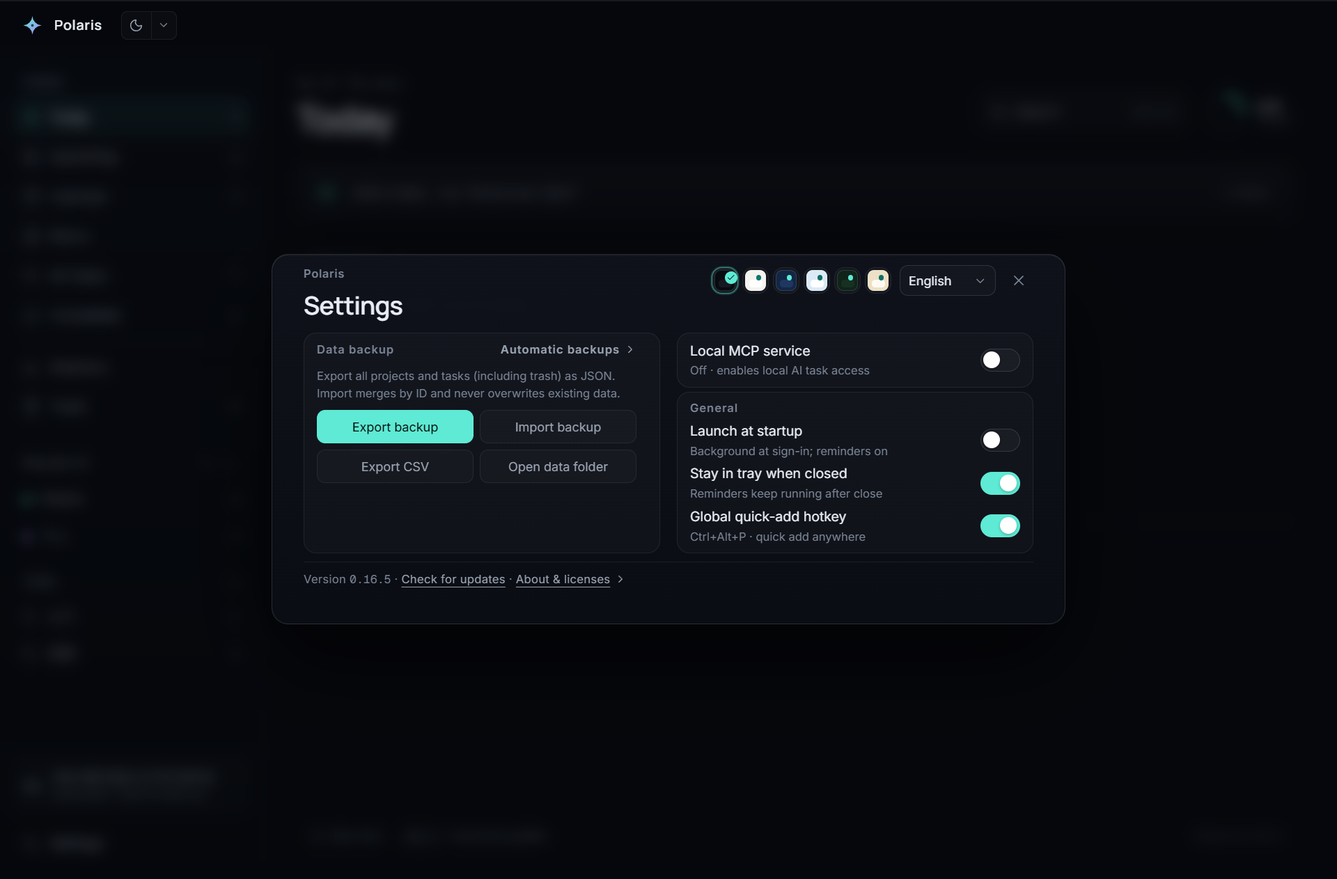
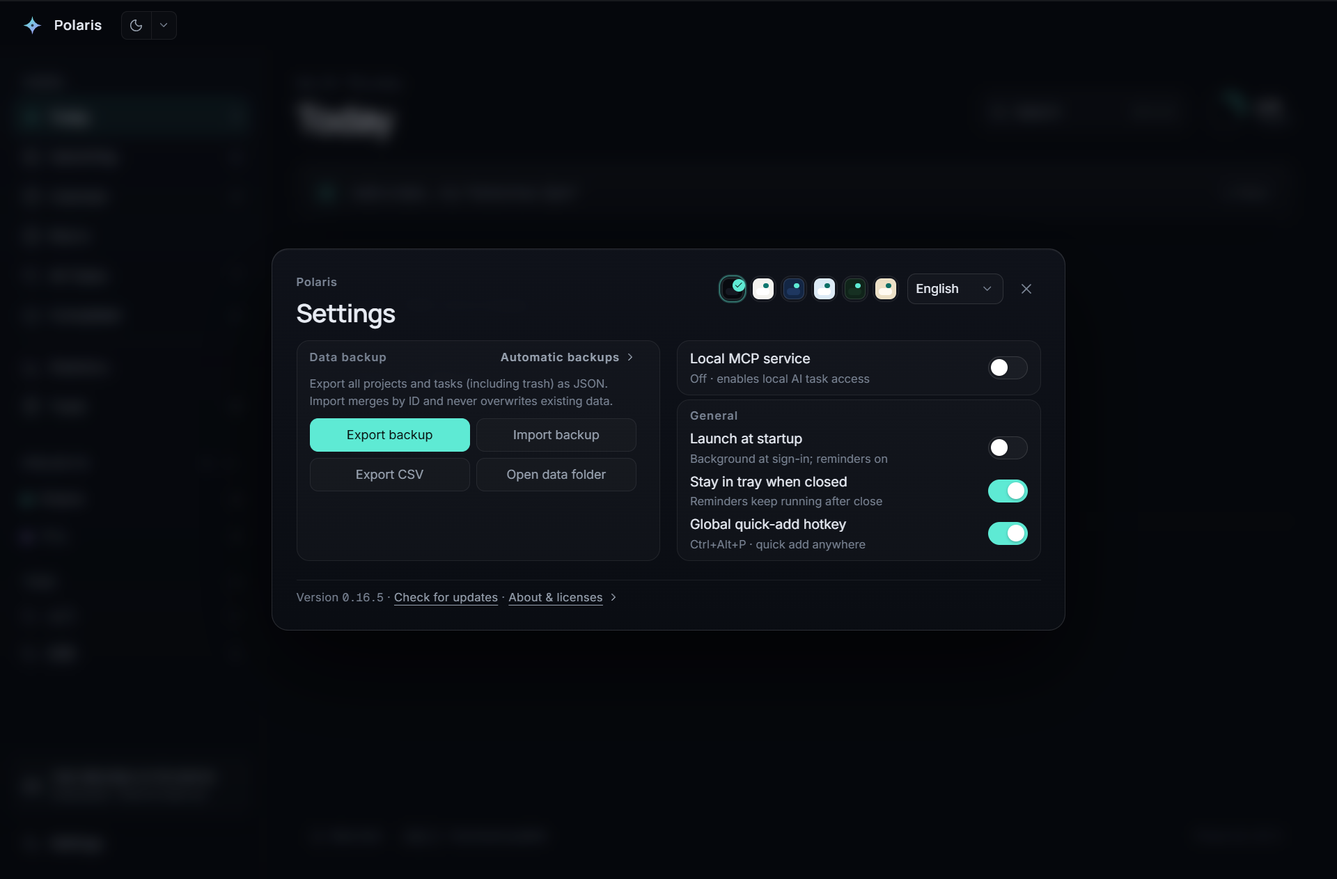
设置页四边等距 24px：状态槽脱流住页脚上方行间隙
- 用户拍板四边统一节奏：padding 23px 13px + 边框 1 + 槽 10 = 四边有效
  留白 24；垂直封顶于此（536 低分辨率档 MCP 启用最坏态一屏余量 8.5px，
  等距 30 会顶破一屏契约）
- 上下不对称根因：更新状态常驻单行槽 in-flow 末行 16.5px + 行隙 8 +
  底 padding 10 ≈ 34.5 vs 顶 10；槽改脱流住页脚分隔线上方 18px 行间隙
  （footer margin-top 10 + row-gap 8），落槽零增高契约原样保留，面板反短 14.5px
- grid-template-areas 除 status 行；状态 div 移进 footer（阅读/焦点顺序
  不变）；关于浮层展开时按浮层语义盖住状态槽
- 冒烟 settingsSymmetricEdges 扩四边等距（±1px 吞槽宽亚像素漂移），
  实测四边 23.67 亚像素级相等；165 全绿 failed:[]
- 中英截图重拍目视全中；CLAUDE.md 与两 README 口径同步

diff --git a/src/main/harness/smoke.ts b/src/main/harness/smoke.ts
@@ -4215,10 +4215,11 @@ export async function runSmokeTest(): Promise<void> {
       }
     }
 
-    // 设置页左右对称 + 叉号右缘对齐（用户报障左右留白不一致/叉号悬空）：
-    // both-edges 滚动条槽让左右有效留白逐像素相等；关闭钮是主题横条末项，
-    // 右缘与右列卡片右缘同基线，标题左缘与备份卡左缘同基线，叉号与语言
-    // 下拉同行居中。三档窗口（含 683×607 实机窄档）量完即关。
+    // 设置页四边等距 + 叉号右缘对齐（用户报障左右/上下不一致、拍板四边统一）：
+    // both-edges 滚动条槽 + 状态槽脱流住页脚上方行间隙后，四边有效留白
+    // 逐像素相等（24 档，±1 吞槽宽亚像素漂移）；关闭钮是主题横条末项，右缘
+    // 与右列卡片右缘同基线，标题左缘与备份卡左缘同基线，叉号与语言下拉同行
+    // 居中。三档窗口（含 683×607 实机窄档）量完即关。
     let settingsSymmetricEdges = false
     if (mainWindow) {
       const originalSize = mainWindow.getSize()
@@ -4240,16 +4241,21 @@ export async function runSmokeTest(): Promise<void> {
             const close = panel.querySelector('.detail-close').getBoundingClientRect();
             const lang = panel.querySelector('.settings-language-select').getBoundingClientRect();
             const title = panel.querySelector('.settings-title').getBoundingClientRect();
+            const head = panel.querySelector('.settings-header').getBoundingClientRect();
+            const foot = panel.querySelector('.settings-footer').getBoundingClientRect();
             const leftInset = backup.left - pr.left;
             const rightInset = pr.right - mcp.right;
+            const topInset = head.top - pr.top;
+            const bottomInset = pr.bottom - foot.bottom;
             const closeFlush = Math.abs(close.right - mcp.right) <= 1;
             const titleFlush = Math.abs(title.left - backup.left) <= 1;
             const rowAligned = Math.abs((close.top + close.bottom) / 2 - (lang.top + lang.bottom) / 2) <= 2;
             document.querySelector('.settings-panel .detail-close')?.click();
             await sleep(250);
             return {
-              ok: Math.abs(leftInset - rightInset) <= 1 && closeFlush && titleFlush && rowAligned,
-              leftInset, rightInset, closeRight: close.right, mcpRight: mcp.right
+              ok: Math.abs(leftInset - rightInset) <= 1 && Math.abs(topInset - bottomInset) <= 1 &&
+                Math.abs(leftInset - topInset) <= 1 && closeFlush && titleFlush && rowAligned,
+              leftInset, rightInset, topInset, bottomInset, closeRight: close.right, mcpRight: mcp.right
             };
           })()`))
         }

diff --git a/src/renderer/src/styles/globals.css b/src/renderer/src/styles/globals.css
@@ -4456,9 +4456,8 @@ textarea {
   grid-template-areas:
     'header theme'
     'backup side'
-    'footer footer'
-    'status status';
-  /* 列距 16：最窄 635 面板档半幅 279.5px，主题横条 140 + 隙 8 + 语言 92
+    'footer footer';
+  /* 列距 16：最窄 635 面板档半幅 285.5px，主题横条 140 + 隙 8 + 语言 92
      + 隙 8 + 关闭钮 28 = 276px 吞得下（关闭钮并入横条后不再额外让位）。 */
   column-gap: 16px;
   row-gap: 8px;
@@ -4468,9 +4467,11 @@ textarea {
   overflow-y: auto;
   /* 滚动条槽常驻且左右对称（both-edges）：超帽出滚动条不挤窄内容 = 零横向
      抖动；单侧 stable 曾让右留白比左多一个槽宽（用户报障左右不对称）。
-     水平 padding 20 + 槽 10 = 左右各 30，逐像素对称，槽宽漂移也不破对称。 */
+     四边等距 24（用户拍板统一节奏）：水平 1 边框 + 13 + 槽 10，垂直 1 + 23；
+     槽宽亚像素漂移 ≤1px 由对称断言容差吞。垂直不再大：536 低分辨率档
+     MCP 启用最坏态一屏契约只剩 8.5px 余量，30 等距会顶破。 */
   scrollbar-gutter: stable both-edges;
-  padding: 10px 20px;
+  padding: 23px 13px;
   border: 1px solid var(--line-strong);
   border-radius: 16px;
   background: var(--command-bg);
@@ -4579,7 +4580,7 @@ textarea {
 /* 语言下拉上移到主题标题行右侧，省一整行高度。 */
 /* 主题节 = 标题同行右半：色样横条 + 语言下拉 + 关闭钮末项。只留色样
    （名字/气质进 title），20px 六枚 + 4px 隙 = 140px，加语言 92 + 隙 8
-   + 关闭钮 28 + 隙 8 = 276px ≤ 最窄两列半幅 279.5px（635px 面板档）。 */
+   + 关闭钮 28 + 隙 8 = 276px ≤ 最窄两列半幅 285.5px（635px 面板档）。 */
 .settings-section--theme {
   grid-area: theme;
   display: flex;
@@ -5242,6 +5243,8 @@ textarea {
 .settings-footer {
   grid-area: footer;
   position: relative;
+  /* 与 row-gap 8 合出 18px 行间隙，收容脱流的状态单行槽（16.5px）。 */
+  margin-top: 10px;
   padding-top: 8px;
   border-top: 1px solid var(--line);
   color: var(--text-tertiary);
@@ -5294,8 +5297,14 @@ textarea {
   max-height: none;
 }
 
-.settings-panel > .update-footer-status {
-  grid-area: status;
+/* 状态槽脱流住页脚分隔线上方行间隙（footer margin-top 10 + row-gap 8 = 18
+   ≥ 单行 16.5）：旧 in-flow 末行让底留白 = 10+8+16.5 ≈ 34.5 vs 顶 10
+   （用户报障上下不对称）；脱流后上下留白各 10 逐像素对称，落槽仍零增高。 */
+.settings-footer .update-footer-status {
+  position: absolute;
+  bottom: calc(100% + 1px);
+  left: 0;
+  right: 0;
   margin-top: 0;
 }
 

diff --git a/src/renderer/src/components/SettingsPanel.tsx b/src/renderer/src/components/SettingsPanel.tsx
@@ -974,13 +974,15 @@ export function SettingsPanel({ open, onClose, scrollTo = null }: SettingsPanelP
                   className={`settings-about-chev${aboutOpen ? ' open' : ''}`}
                 />
               </button>
-            </div>
-            <div
-              className={`settings-hint update-footer-status${updateErrorDetail ? ' is-error' : ''}`}
-              role={updateErrorDetail ? 'alert' : 'status'}
-              title={updateErrorDetail ?? (updateStatusVisible && update ? updateStatusText(update, t) : '')}
-            >
-              {updateErrorDetail ?? (updateStatusVisible && update ? updateStatusText(update, t) : '')}
+              {/* 状态槽脱流住分隔线上方行间隙（见 CSS）：面板上下留白对称、
+                  落槽零增高。DOM 仍住 footer 内，阅读/焦点顺序不变。 */}
+              <div
+                className={`settings-hint update-footer-status${updateErrorDetail ? ' is-error' : ''}`}
+                role={updateErrorDetail ? 'alert' : 'status'}
+                title={updateErrorDetail ?? (updateStatusVisible && update ? updateStatusText(update, t) : '')}
+              >
+                {updateErrorDetail ?? (updateStatusVisible && update ? updateStatusText(update, t) : '')}
+              </div>
             </div>
 
             {/* 重新生成令牌的二次确认：旧客户端配置立即失效，属破坏性动作。

diff --git a/CLAUDE.md b/CLAUDE.md
@@ -182,7 +182,7 @@ npm run make:icon   # regenerate build/icon.png / .ico / .icns
 - Two locales ship: `zh-CN` (default) and `en`. The dictionary is a lightweight hand-rolled module under `src/shared/i18n/` — no third-party i18n library. Chinese is the mother table, split by domain into nine files (`common` / `nav` / `views` / `detail` / `quickAdd` / `settings` / `dialogs` / `main` / `features`) merged in `zh.ts`; `en.ts` is typed `const en: Messages`, so a missing English key is a typecheck error. `translate(locale, key, params)` interpolates `{name}` and falls back to `zhCN` then the raw key. Brand name `Polaris` is never translated.
 - Renderer: `useLocaleStore` (Zustand) owns the locale, persisted in localStorage `polaris-locale`. Initial value = URL query `locale` → stored value → `navigator.language` through `localeFromLanguageTag` (zh* → `zh-CN`, everything else → `en`). Components call `useT()` for a locale-bound `t` and `useLocale()` when a helper needs the locale (dates, recurrence, theme labels). `LocaleSync` is mounted once in `App.tsx` and syncs `<html lang>`, pushes `app:set-locale` to the main process, follows `storage` events from other windows via `setState` (never writing back), and exposes the smoke hook `window.__polarisSetLocale`.
 - Main process: `src/main/locale.ts` is the single record, persisted in the existing `meta` table under `locale` (no migration). `initAppLocale()` defaults to `zh-CN` whenever `POLARIS_SMOKE` / `POLARIS_SHOT` / `POLARIS_SCREENSHOT` is set (harness builds only — the env read is behind `__POLARIS_HARNESS__`), overridable with `POLARIS_LOCALE` for English screenshots — every existing smoke assertion and screenshot works on Chinese text. `db.ts` `seedLocale()` mirrors the same precedence independently (seeding runs before `initAppLocale`, whose meta read needs the database), so first-launch demo tasks match the UI language. `app:get-locale` / `app:set-locale` live inline in `app.whenReady()`; a successful set also calls `updateTrayLocale()`. The renderer URL carries `?locale=` so the first frame paints the authoritative language before the store boots (the splash does too). Tray labels go through the `tray.*` keys and `getTrayMenuLabels()` reads the built menu; `describeTrayCheck(state, locale = 'zh-CN')` is the pure helper behind tray balloons; native file dialogs use `translate(getCurrentLocale(), 'native.*')`.
-- The language switch is `LanguageSelect.tsx`, a hand-drawn dropdown sitting on the theme section's title row (right side) in `SettingsPanel`, saving a full row of height. It replaces the native `<select>` because the OS draws the native popup white regardless of theme; the menu is absolutely positioned inside the row (scrolls with the panel, no viewport repositioning math) and paints with `--panel-bg` / `--line-strong` / `--hover` tokens like `ThemeMenu`. Options are `div[role="option"]` with roving tabindex (never buttons — the trap's FOCUSABLE selector counts buttons); Esc must `stopPropagation` or the settings panel's window listener closes the whole panel; Tab closes without trapping; outside pointerdown and blur-outside close it. One unified two-column layout serves **every** window height (the old >860px single-column variant stacked MCP-on content to 881px and always scrolled, and crossing the breakpoint reflowed the whole panel): named `grid-template-areas` place header left / theme-swatch strip right on the first row (the close button is the strip's last flex item — right edge flush with the right column, vertically centered with the swatches and language dropdown — instead of absolutely floating between padding/gutter baselines), backup card left / MCP + General wrapped in `settings-side` right, footer + status spanning; sections can be added or moved without breaking the grid. Right-column row descriptions are single-line ellipsis and error / unsupported states **replace** the description in the same row (`.is-error[role=alert]`, full text in `title`) — zero conditional rows, so column height is fully deterministic; `settingsNoScrollMcp` pins scrollHeight ≤ clientHeight with MCP on + update status across zh/en × five window sizes (1024×576, 980×640, 683×607, 1280×840, 1280×900). The backup group description clamps to two lines and the accordion's 24h/21-copy/merge note lives in the toggle's `title`, keeping the expanded list's first row inside the 207px card at 1024×576 without scrolling. General / MCP / backup are group cards (`--surface-1` + `--line`, radius 12 — same material as theme options). The right column's content is fixed, so it prices the grid row; the left backup card — the only group whose height varies (accordion, status lines) — uses `contain: size` (zero intrinsic contribution, never prices the row) plus `align-self: stretch` (fills the row) and an in-card flex chain (`auto-backup-body` / `auto-backup-list` `flex: 1` + `min-height: 0`, the list scrolls inside the card), so expanding/collapsing automatic backups changes no outer geometry — pinned by the `settingsBackupNoShift` smoke discriminator (three fixture backups at 1024×576, pixel-identical panel content height / footer top / outer frame / right column across the toggle, rows verified inside the card). Both columns stay equal-height in every state (`balanced` now compares backup card vs side); General rows are top-aligned at fixed gap 4 — the old `space-between` stretch made uneven row gaps. Compact backup buttons are a 2×2 grid with `white-space: nowrap` (four-across in a half-width column wrapped labels inside the 32px buttons); the accordion loads the list before expanding so growth is single-stage. The overlay is **truly vertically centered with a glide** (user decision: centered looks better): `SettingsPanel` writes `--settings-inset-top = max(24px, (innerHeight - panel.offsetHeight) / 2)` from a ResizeObserver plus window resize (`offsetHeight` ignores the entrance spring's scale), and `.settings-overlay` transitions `padding-top` over 180ms — enabling MCP grows the panel and it glides to the new center instead of snapping; about/accordion/status never change panel height, so the MCP toggle is the only glide trigger, and `settingsCentered` pins equal top/bottom gaps (±2px) across two window sizes × MCP off/on; panel `max-height` subtracts the same inset, and `scrollbar-gutter: stable both-edges` reserves the 10px scrollbar slot on **both** sides permanently (single-side `stable` left the right inset a slot-width wider than the left — user-reported asymmetry), so with horizontal padding 20 the effective inset is 30px per side, pixel-symmetric even if the slot width drifts, and the scrollbar appearing on overflow never reflows content width; `settingsSymmetricEdges` pins left/right insets equal, close-right flush with the right column, title-left flush with the backup card and close centered with the language dropdown across 1024×576 / 683×607 / 1280×900, and the no-scroll / centering / CSV guards joined the gated `checks` map the same day (they had been display-only); `settingsAboutStable` also pins `clientWidth` and theme-swatch width across the toggle. About/credits are a **popover above the footer** (「关于与许可」 toggle, `motion.div` opacity+y 140ms, expanded mounts / collapsed unmounts): absolutely positioned inside `.settings-footer` (`position: relative`), so toggling changes **no layout height and no scroll geometry** — the earlier in-flow disclosure grew the panel past its cap, and collapsing after the user scrolled into the credits clamped `scrollTop` back to 0 (measured 68→0 in ≤60ms at 1280×843), snapping the view; the popover removes that whole class by construction. Esc closes only the popover while open (single window listener decides by `aboutOpen`; dual capture+bubble listeners were rejected for phase/ordering complexity), outside mousedown inside the panel closes it too; the version number stays in the footer. Smoke `settingsAboutStable` pins panel-top, footer-top, outer height, `scrollHeight` and content width immutability across the toggle at 1280×843 (the zero-growth popover contract replaces the old `grew` guard). The two options always read `简体中文` / `English` in their own language, never translated. Trigger focus uses the app's soft-focus language (faint accent border + light glow, `outline: 0`), never a hard ring. Smoke: `languageMenuThemed` compares the menu's computed background against a `var(--panel-bg)` probe byte-for-byte, clicks through both options, and checks Esc closes only the menu.
+- The language switch is `LanguageSelect.tsx`, a hand-drawn dropdown sitting on the theme section's title row (right side) in `SettingsPanel`, saving a full row of height. It replaces the native `<select>` because the OS draws the native popup white regardless of theme; the menu is absolutely positioned inside the row (scrolls with the panel, no viewport repositioning math) and paints with `--panel-bg` / `--line-strong` / `--hover` tokens like `ThemeMenu`. Options are `div[role="option"]` with roving tabindex (never buttons — the trap's FOCUSABLE selector counts buttons); Esc must `stopPropagation` or the settings panel's window listener closes the whole panel; Tab closes without trapping; outside pointerdown and blur-outside close it. One unified two-column layout serves **every** window height (the old >860px single-column variant stacked MCP-on content to 881px and always scrolled, and crossing the breakpoint reflowed the whole panel): named `grid-template-areas` place header left / theme-swatch strip right on the first row (the close button is the strip's last flex item — right edge flush with the right column, vertically centered with the swatches and language dropdown — instead of absolutely floating between padding/gutter baselines), backup card left / MCP + General wrapped in `settings-side` right, footer + status spanning; sections can be added or moved without breaking the grid. Right-column row descriptions are single-line ellipsis and error / unsupported states **replace** the description in the same row (`.is-error[role=alert]`, full text in `title`) — zero conditional rows, so column height is fully deterministic; `settingsNoScrollMcp` pins scrollHeight ≤ clientHeight with MCP on + update status across zh/en × five window sizes (1024×576, 980×640, 683×607, 1280×840, 1280×900). The backup group description clamps to two lines and the accordion's 24h/21-copy/merge note lives in the toggle's `title`, keeping the expanded list's first row inside the 207px card at 1024×576 without scrolling. General / MCP / backup are group cards (`--surface-1` + `--line`, radius 12 — same material as theme options). The right column's content is fixed, so it prices the grid row; the left backup card — the only group whose height varies (accordion, status lines) — uses `contain: size` (zero intrinsic contribution, never prices the row) plus `align-self: stretch` (fills the row) and an in-card flex chain (`auto-backup-body` / `auto-backup-list` `flex: 1` + `min-height: 0`, the list scrolls inside the card), so expanding/collapsing automatic backups changes no outer geometry — pinned by the `settingsBackupNoShift` smoke discriminator (three fixture backups at 1024×576, pixel-identical panel content height / footer top / outer frame / right column across the toggle, rows verified inside the card). Both columns stay equal-height in every state (`balanced` now compares backup card vs side); General rows are top-aligned at fixed gap 4 — the old `space-between` stretch made uneven row gaps. Compact backup buttons are a 2×2 grid with `white-space: nowrap` (four-across in a half-width column wrapped labels inside the 32px buttons); the accordion loads the list before expanding so growth is single-stage. The overlay is **truly vertically centered with a glide** (user decision: centered looks better): `SettingsPanel` writes `--settings-inset-top = max(24px, (innerHeight - panel.offsetHeight) / 2)` from a ResizeObserver plus window resize (`offsetHeight` ignores the entrance spring's scale), and `.settings-overlay` transitions `padding-top` over 180ms — enabling MCP grows the panel and it glides to the new center instead of snapping; about/accordion/status never change panel height, so the MCP toggle is the only glide trigger, and `settingsCentered` pins equal top/bottom gaps (±2px) across two window sizes × MCP off/on; panel `max-height` subtracts the same inset, and `scrollbar-gutter: stable both-edges` reserves the 10px scrollbar slot on **both** sides permanently (single-side `stable` left the right inset a slot-width wider than the left — user-reported asymmetry), so with padding `23px 13px` plus border and slot the effective inset is 24px on **all four** sides (user decision: one uniform rhythm; vertical capped there because the 536px low-res tier's MCP-on one-screen budget has only ~8.5px slack), pixel-equal within ±1px of sub-pixel slot drift, and the scrollbar appearing on overflow never reflows content width; the update-status single-line slot moved **out of flow** into the 18px row gap above the footer separator (footer `margin-top: 10` + row-gap 8 ≥ the 16.5px line), keeping the zero-jump landing contract while removing the old ~34.5px bottom inset; `settingsSymmetricEdges` pins four-side inset equality, close-right flush with the right column, title-left flush with the backup card and close centered with the language dropdown across 1024×576 / 683×607 / 1280×900, and the no-scroll / centering / CSV guards joined the gated `checks` map the same day (they had been display-only); `settingsAboutStable` also pins `clientWidth` and theme-swatch width across the toggle. About/credits are a **popover above the footer** (「关于与许可」 toggle, `motion.div` opacity+y 140ms, expanded mounts / collapsed unmounts): absolutely positioned inside `.settings-footer` (`position: relative`), so toggling changes **no layout height and no scroll geometry** — the earlier in-flow disclosure grew the panel past its cap, and collapsing after the user scrolled into the credits clamped `scrollTop` back to 0 (measured 68→0 in ≤60ms at 1280×843), snapping the view; the popover removes that whole class by construction. Esc closes only the popover while open (single window listener decides by `aboutOpen`; dual capture+bubble listeners were rejected for phase/ordering complexity), outside mousedown inside the panel closes it too; the version number stays in the footer. Smoke `settingsAboutStable` pins panel-top, footer-top, outer height, `scrollHeight` and content width immutability across the toggle at 1280×843 (the zero-growth popover contract replaces the old `grew` guard). The two options always read `简体中文` / `English` in their own language, never translated. Trigger focus uses the app's soft-focus language (faint accent border + light glow, `outline: 0`), never a hard ring. Smoke: `languageMenuThemed` compares the menu's computed background against a `var(--panel-bg)` probe byte-for-byte, clicks through both options, and checks Esc closes only the menu.
 - Formatting is locale-aware: `lib/dates.ts` (`formatDue` / `formatHeaderDate` / `formatCompletedAt` / `formatDeletedAt`), `lib/dateTime.ts` (`weekdayLabels` / `monthLabel` / `dayLabel` / `dayPart`), `shared/quickAddParse.ts` (`formatParsedDue` takes an explicit locale) and `shared/recurrence.ts` (`recurrenceLabel` takes one). Pass the current locale at every call site; the default parameter exists for legacy call sites, not for new ones.
 - Adding a third language means: extend `Locale` / `LOCALES` / `isLocale` / `localeFromLanguageTag` in `src/shared/i18n/index.ts`, add an `xx.ts` implementing `Messages` and branch `translate` on it, teach the date helpers that locale, and add the option to `LanguageSelect` (it maps `LOCALES` automatically — extend its `OPTION_LABEL_KEY` and the message dictionaries). `localeFromLanguageTag` must keep defaulting non-Chinese tags to `en` until a real locale match exists.
 - Quick-add natural-language parsing is bilingual and input-driven: Chinese and English date words are both recognized in either UI language; the locale only chooses chip and receipt copy. The English layer is enumerated inline (`Step 2b` in `shared/quickAddParse.ts`), not forked — it feeds the same candidate list through the existing cluster selection, head/tail anchoring, title carving, dismissal and `candidateCounts` machinery, and reuses the existing `TokenKind`s except `offsetEn`. Grammar: today / tonight / tomorrow / day after tomorrow (plus tmr / tmw), weekday names and abbreviations with optional next / this / on (`next` = 下周 semantics; a `this` weekday already past is rejected, not rolled forward, matching Chinese 「本周五」), 3pm / 3:30pm / 3 pm / at 3 / at 15 / noon / midnight, bare morning / afternoon / evening (defaults 09/15/20, aligned with 上午/下午/晚上), in N hours|minutes|days|weeks (hours/minutes are exact millisecond offsets — instant semantics; days/weeks are wall-clock `addDays` additions, week = 7×day, matching 「后天」 — a fixed 86400000ms day would drift an hour across a DST transition), dec 25 / 25 dec / december 25 / 12/25 (US month-first), and `!high` / `!medium` / `!med` / `!low`. `2026-12-25` and `#project` were already language-neutral. False-positive defenses: ASCII lookbehind word boundaries replace the Chinese character guards, so `tomorrowland` and the `in` of `join` never match; a month name only counts when adjacent to a day number (`May the force be with you`, `march forward`, `April is nice` stay titles); a bare weekday abbreviation needs lowercase or sentence case with no following lowercase word or proper noun and is skipped after pronouns (`sat down`, `Sun Microsystems`, `SAT scores`, `Mon ami`); `good morning`-style greetings are masked whole. Offsets stay UTF-16 code-unit half-open spans so `String.slice` / `setSelectionRange` remain aligned. CSV export headers follow Csv canonical columns and are not localized. Local MCP tool names and descriptions stay English (protocol surface, not UI). Code comments stay Chinese.

diff --git a/README.en.md b/README.en.md
@@ -77,7 +77,7 @@ If you previously installed the "all users" build (under `C:\Program Files`), un
 - **Small-screen fit**: default and minimum window sizes hug the screen's work area and re-clamp when the resolution changes; 1024×576-class screens get a compact layout with independently scrolling sidebar navigation, and the storage card and Settings stay pinned at the bottom.
 - **UI language**: switch between Simplified Chinese and English in the Settings "Color theme" section — UI text, date formats, and the tray menu update instantly and the choice is remembered; system notifications and native file dialogs follow the current language.
 - **Keyboard-first & accessibility**: the command palette (`Ctrl K`), Settings, and the narrow-screen detail drawer have focus traps, while the wide-screen inspector keeps the list operable; skip link and reduced motion are supported; all ten input fields across the app share one soft-focus language (faint border + light halo), and focus rings never match their fill color.
-- **Settings on one screen**: the Settings panel fits every window size in one screen with no vertical scroll (one unified two-column layout: left "Data backup", right "Local MCP + General", and a six-swatch theme strip sharing the header row — names and temperaments live in hover tooltips): the right column's fixed content pins the row height and its row descriptions are single-line ellipsis (errors replace the description in the same row, full text in the tooltip), while the left backup card absorbs the accordion's expansion (the list scrolls inside the card), so expanding / collapsing automatic backups leaves the panel, footer and right column pixel-identical; the backup buttons form a 2×2 grid and button labels never wrap inside a button. Each of the three groups lives in its own card, both columns equal-height in any state. The language dropdown sits at the right end of the theme row; the adaptive short-mask token (head/tail fill the box, at least first 4 / last 4, middle hidden) stretches to fill the row's remaining width, justified edge-to-edge with those right-aligned buttons, while the usage note lives in the reserved feedback slot; Export CSV is a plain button in the fourth backup-grid cell (CSV import removed); About & licenses live in a popover above the footer (zero layout growth when expanded, Esc / outside-click closes it). The panel is truly vertically centered (top inset computed from its measured height; enabling MCP glides to the new center over 180ms instead of snapping) and the scrollbar gutter is permanent and symmetric on both sides (both-edges, left/right insets pixel-equal) — expanding About never re-flows or changes scroll state; the close button is the theme strip's last item, its right edge flush with the right column instead of floating; the update-status line holds a permanent single-line slot so check results land without jumping. The custom title bar keeps native Windows minimize / maximize / close buttons.
+- **Settings on one screen**: the Settings panel fits every window size in one screen with no vertical scroll (one unified two-column layout: left "Data backup", right "Local MCP + General", and a six-swatch theme strip sharing the header row — names and temperaments live in hover tooltips): the right column's fixed content pins the row height and its row descriptions are single-line ellipsis (errors replace the description in the same row, full text in the tooltip), while the left backup card absorbs the accordion's expansion (the list scrolls inside the card), so expanding / collapsing automatic backups leaves the panel, footer and right column pixel-identical; the backup buttons form a 2×2 grid and button labels never wrap inside a button. Each of the three groups lives in its own card, both columns equal-height in any state. The language dropdown sits at the right end of the theme row; the adaptive short-mask token (head/tail fill the box, at least first 4 / last 4, middle hidden) stretches to fill the row's remaining width, justified edge-to-edge with those right-aligned buttons, while the usage note lives in the reserved feedback slot; Export CSV is a plain button in the fourth backup-grid cell (CSV import removed); About & licenses live in a popover above the footer (zero layout growth when expanded, Esc / outside-click closes it). The panel is truly vertically centered (top inset computed from its measured height; enabling MCP glides to the new center over 180ms instead of snapping) and the scrollbar gutter is permanent and symmetric on both sides (both-edges), with the update-status single-line slot living out of flow in the row gap above the footer separator — all four insets pixel-equal (24px); expanding About never re-flows or changes scroll state and check results land in the slot without jumping; the close button is the theme strip's last item, its right edge flush with the right column instead of floating. The custom title bar keeps native Windows minimize / maximize / close buttons.
 - **About & attribution**: the version number lives permanently in the Settings footer; expanding the "About & licenses" popover reveals the MIT license and font / icon credits. Full third-party component and font notices ship with the installer in `resources/NOTICE` and `resources/licenses/`.
 
 ## Screenshots
@@ -384,7 +384,7 @@ All expected values are written as literals, never computed through the code und
 
 **Tray & hotkey**: post-build menu labels are exactly four items; tray "Settings" summons the window and opens the panel; manual-check balloon copy truth table across seven states; dev-mode checks neither popup nor summon; hotkey on by default, Settings round-trip, conflict degradation notice, hidden-window summon lands on "Today" with the input focused.
 
-**Layout & focus**: Settings one-screen guard (default 840 and compact tiers, measured after clicking check-for-updates so the status row exists); the 1024×536 low-resolution compact tier applies with no sidebar/main overflow; the storage card jumps to the backup section. A dedicated one-screen guard measures the MCP-on worst case in both languages across five window sizes (including the real 683×607 width and the 1280×900 tall tier): scrollHeight ≤ clientHeight everywhere. A centering guard measures equal top/bottom gaps (pixel-identical) across two window sizes × MCP off/on; a CSV guard pins Export CSV as a plain button (four-button 2×2, no split chevron or popover leftovers) and a main-process fixture compares the exported text line-by-line against literals (escaping/INDENT/priority/wall-clock/completion); the Settings zero-jitter guard measures at the real 1024×576 tier: adaptive short mask shape (prefix + head k+3 + … + tail k, k≥4), middle hidden, fills ≥80% of the box inner width on a single line whose box fills the remaining row width so the row is justified edge-to-edge (box flush left, button group flush right), single-line feedback slot, exactly the copy and reset buttons, and zero displacement of panel content height and footer top edge before/after check results land in their slot. The layout-v2 guard additionally verifies two-column orientation (left backup card, right MCP + General), the language dropdown's position, equal column heights (backup card vs right column), and the About collapse round-trip. A symmetry guard measures equal left/right insets, the close button's right edge flush with the right column, the title's left edge flush with the backup card, and the close button vertically centered with the language dropdown across three window sizes (including the real 683×607 tier); the one-screen / centering / CSV guards joined the gated checks map on 2026-11-19 (previously display-only). The backup zero-jitter guard expands the automatic-backup accordion with three fixture backups at 1024×576 and asserts the rows render inside the stretched card while panel content height, footer top edge, outer frame and right-column height stay pixel-identical across expand and collapse. The top-edge anchoring guard verifies at 1280×843 that expanding/collapsing About leaves the panel top edge, footer top edge, outer height, content height, and content width pixel-identical (the zero-growth popover contract). Focus-ring scans cover five states — main view, detail pane, date popover, expanded theme menu, trash confirm dialog — failing if any ring matches its own fill/border color.
+**Layout & focus**: Settings one-screen guard (default 840 and compact tiers, measured after clicking check-for-updates so the status row exists); the 1024×536 low-resolution compact tier applies with no sidebar/main overflow; the storage card jumps to the backup section. A dedicated one-screen guard measures the MCP-on worst case in both languages across five window sizes (including the real 683×607 width and the 1280×900 tall tier): scrollHeight ≤ clientHeight everywhere. A centering guard measures equal top/bottom gaps (pixel-identical) across two window sizes × MCP off/on; a CSV guard pins Export CSV as a plain button (four-button 2×2, no split chevron or popover leftovers) and a main-process fixture compares the exported text line-by-line against literals (escaping/INDENT/priority/wall-clock/completion); the Settings zero-jitter guard measures at the real 1024×576 tier: adaptive short mask shape (prefix + head k+3 + … + tail k, k≥4), middle hidden, fills ≥80% of the box inner width on a single line whose box fills the remaining row width so the row is justified edge-to-edge (box flush left, button group flush right), single-line feedback slot, exactly the copy and reset buttons, and zero displacement of panel content height and footer top edge before/after check results land in their slot. The layout-v2 guard additionally verifies two-column orientation (left backup card, right MCP + General), the language dropdown's position, equal column heights (backup card vs right column), and the About collapse round-trip. A symmetry guard measures all four insets pixel-equal (±1px), the close button's right edge flush with the right column, the title's left edge flush with the backup card, and the close button vertically centered with the language dropdown across three window sizes (including the real 683×607 tier); the one-screen / centering / CSV guards joined the gated checks map on 2026-11-19 (previously display-only). The backup zero-jitter guard expands the automatic-backup accordion with three fixture backups at 1024×576 and asserts the rows render inside the stretched card while panel content height, footer top edge, outer frame and right-column height stay pixel-identical across expand and collapse. The top-edge anchoring guard verifies at 1280×843 that expanding/collapsing About leaves the panel top edge, footer top edge, outer height, content height, and content width pixel-identical (the zero-growth popover contract). Focus-ring scans cover five states — main view, detail pane, date popover, expanded theme menu, trash confirm dialog — failing if any ring matches its own fill/border color.
 
 **Themes**: pair quick-toggle returns to the original theme after two clicks (verified for all three pairs); the six-theme matrix's `data-theme` / persistence / token application; the title-bar theme menu (all six rows in fixed order, opening focuses the current row, selection persists, `aria-expanded` resets after unmount, focus returns to the arrow, Esc closes only the menu); and typing "主题" in the palette hits six direct commands that apply on selection.
 

diff --git a/README.md b/README.md
@@ -77,7 +77,7 @@ Polaris 面向 Windows 11 桌面，用 Electron 构建，数据落在本机 SQLi
 - **小屏适配**：窗口默认与最小尺寸贴合屏幕工作区，分辨率变化时自动重收；1024×576 级别小屏走紧凑布局，侧栏导航独立滚动，存储卡与设置钉底不丢。
 - **界面语言**：设置「颜色主题」区可在简体中文 / English 之间切换，界面文字、日期格式与托盘菜单立即更新并记住选择；系统通知与原生文件对话框同步使用当前语言。
 - **键盘优先与无障碍**：命令面板（`Ctrl K`）、设置和窄屏详情有焦点陷阱，宽屏详情保持列表可操作；支持 skip link、reduced motion；全应用十处输入框统一柔和聚焦语言（淡边 + 浅光晕），焦点环绝不与填充同色。
-- **设置一屏收纳**：设置面板在所有窗口尺寸一屏放下、无上下滚动（统一两列布局：左「数据备份」、右「本地 MCP + 常规设置」，主题六枚色样横条与标题同行，名字与气质在悬浮提示里）：右列固定内容钉死行高、行描述单行省略（错误替换描述落同一行，全文进悬浮提示），左列备份卡吸收手风琴展开高度、列表卡内滚动，展开 / 收起自动备份面板、页脚、右列逐像素不动；备份按钮行 2×2 网格、钮内文字永不折行；常规 / MCP / 备份三组各自成组卡，两列任何状态同高；语言下拉坐在主题行右端、令牌自适应短掩码（头尾随盒宽填满、保底头 4 尾 4、中段隐藏）盒拉伸吃满剩余宽、与复制 / 重置整行两端对齐（按钮贴右缘），用法说明住常驻反馈槽；导出 CSV 独立成钮占 2×2 第四格（导入 CSV 功能已移除）、关于与许可收进页脚上方浮层（展开零布局增高，Esc / 点浮层外收起）；面板真·垂直居中（顶边距按实测高度实时算，启用 MCP 长高走 180ms 平滑 glide 不瞬移）、滚动条槽左右对称常驻（both-edges，左右留白逐像素相等）——展开关于不挤窄重排、不改滚动状态；关闭钮是主题横条末项，右缘与右列卡片同基线、不再悬空；更新状态行常驻占位单行，检查结果落槽不跳变；自定义标题栏保留 Windows 原生最小化 / 最大化 / 关闭按钮。
+- **设置一屏收纳**：设置面板在所有窗口尺寸一屏放下、无上下滚动（统一两列布局：左「数据备份」、右「本地 MCP + 常规设置」，主题六枚色样横条与标题同行，名字与气质在悬浮提示里）：右列固定内容钉死行高、行描述单行省略（错误替换描述落同一行，全文进悬浮提示），左列备份卡吸收手风琴展开高度、列表卡内滚动，展开 / 收起自动备份面板、页脚、右列逐像素不动；备份按钮行 2×2 网格、钮内文字永不折行；常规 / MCP / 备份三组各自成组卡，两列任何状态同高；语言下拉坐在主题行右端、令牌自适应短掩码（头尾随盒宽填满、保底头 4 尾 4、中段隐藏）盒拉伸吃满剩余宽、与复制 / 重置整行两端对齐（按钮贴右缘），用法说明住常驻反馈槽；导出 CSV 独立成钮占 2×2 第四格（导入 CSV 功能已移除）、关于与许可收进页脚上方浮层（展开零布局增高，Esc / 点浮层外收起）；面板真·垂直居中（顶边距按实测高度实时算，启用 MCP 长高走 180ms 平滑 glide 不瞬移）、滚动条槽左右对称常驻（both-edges）、更新状态单行槽脱流住页脚分隔线上方行间隙——四边留白逐像素等距（24px），展开关于不挤窄重排、不改滚动状态，检查结果落槽不跳变；关闭钮是主题横条末项，右缘与右列卡片同基线、不再悬空；自定义标题栏保留 Windows 原生最小化 / 最大化 / 关闭按钮。
 - **关于与署名**：版本号常驻设置页脚，「关于与许可」浮层展开后显示 MIT 许可与字体 / 图标署名；完整第三方组件与字体声明随安装包放在 `resources/NOTICE` 与 `resources/licenses/`。
 
 ## 界面预览
@@ -382,7 +382,7 @@ npm run verify:pure
 
 **托盘与热键**：构建后菜单标签恰为四项、托盘「设置」唤起并开面板、手动检查七态气泡文案真值表、开发态检查不弹窗不唤窗；热键默认开启、设置往返、冲突降级中文提示、隐藏窗口唤起回「今天」并聚焦输入。
 
-**布局与聚焦**：设置面板一屏守卫（默认 840 与紧凑两档，点过检查更新带状态行再量）、低分辨率 1024×536 紧凑档生效且侧栏/主区不溢出、存储卡直达备份区；设置一屏守卫另在 MCP 启用最坏态按中英双语 × 五档窗口（含 683×607 实宽档与 1280×900 高窗口档）量 scrollHeight ≤ clientHeight；真居中守卫在两档窗口 × MCP 关/开四态量上下留白逐像素相等；CSV 守卫钉导出 CSV 独立成钮（四钮 2×2、无分体箭头与浮层残留），并在主进程侧用夹具逐行字面量比对导出文本（escaping/INDENT/优先级/墙钟/完成态）；零抖动守卫在实机 1024×576 档量自适应短掩码形状（前缀 + 头 k+3 + … + 尾 k，k≥4）、中段隐藏、填满整盒单行（≥80% 内宽）、盒吃满剩余宽整行两端对齐（盒左缘贴行左、按钮组贴行右）、反馈槽单行、按钮恰为复制与重置，以及检查更新结果落槽前后面板内容高度与页脚顶边零位移；布局 v2 守卫另验两列方位、语言上移、两列同高与关于折叠往返；对称守卫在三档窗口（含 683×607 实宽档）量左右留白逐像素相等、叉号右缘与右列卡片右缘对齐、标题左缘与备份卡左缘对齐、叉号与语言下拉同行居中（一屏 / 真居中 / CSV 三守卫自 2026-11-19 起进门控，此前只展示不门控）；顶边锚定守卫在 1280×843 档验展开 / 收起关于时面板顶边、页脚顶边、外框高度、内容高度与内容宽度逐像素零位移（浮层零增高契约）；焦点环扫描覆盖主视图、详情栏、日期弹层、主题菜单展开、回收站确认弹窗五种状态，任何环与自身填充/边框同色即失败。
+**布局与聚焦**：设置面板一屏守卫（默认 840 与紧凑两档，点过检查更新带状态行再量）、低分辨率 1024×536 紧凑档生效且侧栏/主区不溢出、存储卡直达备份区；设置一屏守卫另在 MCP 启用最坏态按中英双语 × 五档窗口（含 683×607 实宽档与 1280×900 高窗口档）量 scrollHeight ≤ clientHeight；真居中守卫在两档窗口 × MCP 关/开四态量上下留白逐像素相等；CSV 守卫钉导出 CSV 独立成钮（四钮 2×2、无分体箭头与浮层残留），并在主进程侧用夹具逐行字面量比对导出文本（escaping/INDENT/优先级/墙钟/完成态）；零抖动守卫在实机 1024×576 档量自适应短掩码形状（前缀 + 头 k+3 + … + 尾 k，k≥4）、中段隐藏、填满整盒单行（≥80% 内宽）、盒吃满剩余宽整行两端对齐（盒左缘贴行左、按钮组贴行右）、反馈槽单行、按钮恰为复制与重置，以及检查更新结果落槽前后面板内容高度与页脚顶边零位移；布局 v2 守卫另验两列方位、语言上移、两列同高与关于折叠往返；对称守卫在三档窗口（含 683×607 实宽档）量四边留白逐像素等距（±1px）、叉号右缘与右列卡片右缘对齐、标题左缘与备份卡左缘对齐、叉号与语言下拉同行居中（一屏 / 真居中 / CSV 三守卫自 2026-11-19 起进门控，此前只展示不门控）；顶边锚定守卫在 1280×843 档验展开 / 收起关于时面板顶边、页脚顶边、外框高度、内容高度与内容宽度逐像素零位移（浮层零增高契约）；焦点环扫描覆盖主视图、详情栏、日期弹层、主题菜单展开、回收站确认弹窗五种状态，任何环与自身填充/边框同色即失败。
 
 **主题**：配对快切连点两次回到原主题（三对逐一校验）、六套主题矩阵的 `data-theme` / 持久化 / 令牌生效、标题栏主题菜单（六行齐全且顺序固定、打开即聚焦当前行、点选落库、菜单卸载后 `aria-expanded` 归位、焦点回到箭头、Esc 只收菜单），以及命令面板输入「主题」命中六条直达并选中生效。
 
